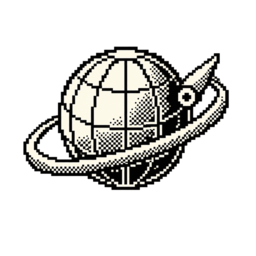
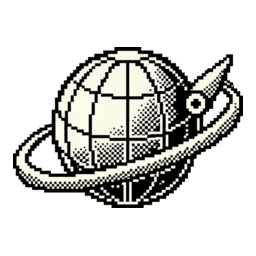
Cover the Omarchy app catalog

Changed region(s): [[0.0312, 0.1562, 0.9688, 0.8125]]

diff --git a/components/dock/IconResolver.js b/components/dock/IconResolver.js
@@ -13,39 +13,47 @@ var FALLBACK_MAP = {
 }
 
 var PACK_ALIASES = {
+    theme: ["aether", "theme designer", "theme editor"],
+    document: ["org gnome evince", "document viewer", "evince", "pdf viewer"],
+    disk: ["org gnome diskutility", "disk utility", "gnome disks", "disk usage", "disk image mounter", "disk image writer"],
+    image: ["imv", "image viewer", "google photos", "photo viewer"],
+    spreadsheet: ["libreoffice calc", "spreadsheet"],
+    presentation: ["libreoffice impress", "presentation"],
+    writer: ["libreoffice writer", "omawrite", "word processor"],
+    transfer: ["localsend", "local send", "file transfer"],
+    paint: ["pinta", "paint editor", "image editor"],
+    "video-edit": ["kdenlive", "omacut", "video editor"],
+    broadcast: ["obsproject studio", "obs studio", "screen recorder", "broadcast studio"],
+    calculator: ["omacalc", "calculator"],
+    printer: ["system config printer", "printer settings", "printing"],
+    ocr: ["tensaku", "optical character recognition", "text recognition"],
+    project: ["basecamp", "project management"],
+    containers: ["docker", "lazydocker", "containers"],
+    contacts: ["google contacts", "address book", "contacts"],
+    maps: ["google maps", "maps"],
+    social: [" x ", "twitter", "social feed"],
     files: ["nautilus", "dolphin", "thunar", "pcmanfm", "nemo", "cosmic files", "file manager"],
     terminal: ["foot", "kitty", "alacritty", "ghostty", "wezterm", "konsole", "kgx", "gnome console", "xterm"],
     browser: ["chromium", "chrome", "firefox", "brave", "vivaldi", "epiphany", "helium", "zen browser"],
     code: ["code", "codium", "cursor", "zed", "sublime text", "intellij", "pycharm", "webstorm", "neovim"],
-    mail: ["thunderbird", "geary", "evolution", "mailspring", "proton mail"],
-    chat: ["discord", "slack", "signal", "telegram", "mattermost", "element", "whatsapp"],
-    music: ["spotify", "rhythmbox", "lollypop", "amberol", "strawberry", "audacious", "music"],
-    video: ["vlc", "mpv", "celluloid", "clapper", "totem", "obs studio", "video"],
+    mail: ["hey", "thunderbird", "geary", "evolution", "mailspring", "proton mail"],
+    chat: ["discord", "slack", "signal", "telegram", "mattermost", "element", "whatsapp", "google messages"],
+    music: ["cliamp", "spotify", "rhythmbox", "lollypop", "amberol", "strawberry", "audacious", "music"],
+    video: ["vlc", "mpv", "celluloid", "clapper", "totem", "youtube", "zoom", "video player"],
     calendar: ["calendar", "morgen", "fantastical"],
     settings: ["settings", "control center", "pavucontrol", "blueman", "nwg look"],
-    games: ["steam", "lutris", "heroic", "bottles", "games"],
-    notes: ["obsidian", "logseq", "joplin", "standard notes", "notes"]
+    games: ["moonlight", "steam", "lutris", "heroic", "bottles", "games"],
+    notes: ["obsidian", "xournalpp", "xournal", "logseq", "joplin", "standard notes", "notes"],
+    application: []
 }
 
 var PACK_ROLES = Object.keys(PACK_ALIASES)
 
-// Alpha bounds measured from the bundled 256x256 raster originals. Keeping
-// the source files untouched preserves their authored masters while the UI
-// presents the painted artwork at a consistent visual size.
-var PACK_CROPS = {
-    browser: { x: 23, y: 46, width: 207, height: 145 },
-    calendar: { x: 23, y: 13, width: 214, height: 230 },
-    chat: { x: 20, y: 34, width: 216, height: 190 },
-    code: { x: 44, y: 25, width: 175, height: 193 },
-    files: { x: 37, y: 19, width: 189, height: 199 },
-    games: { x: 24, y: 24, width: 218, height: 199 },
-    mail: { x: 14, y: 34, width: 217, height: 188 },
-    music: { x: 45, y: 13, width: 177, height: 222 },
-    notes: { x: 28, y: 18, width: 192, height: 210 },
-    settings: { x: 30, y: 36, width: 202, height: 188 },
-    terminal: { x: 28, y: 13, width: 199, height: 230 },
-    video: { x: 58, y: 13, width: 158, height: 219 }
-}
+// Every rendered pack asset is trimmed, scaled into the same 230px optical
+// box, and centered on a 256px transparent canvas by render-app-icons.py.
+var PACK_CROPS = {}
+for (var cropIndex = 0; cropIndex < PACK_ROLES.length; cropIndex++)
+    PACK_CROPS[PACK_ROLES[cropIndex]] = { x: 13, y: 13, width: 230, height: 230 }
 
 function sanitizeName(value) {
     return String(value || "").replace(/\.desktop$/i, "").replace(/[-_]+/g, " ").trim()

diff --git a/components/dock/IconPickerPanel.qml b/components/dock/IconPickerPanel.qml
@@ -38,6 +38,7 @@ PanelWindow {
   property int appliedRevision: 0
   property int gridCell: 112
   readonly property var packIcons: [
+    { pack: "application", label: "Application" },
     { pack: "files", label: "Files" },
     { pack: "terminal", label: "Terminal" },
     { pack: "browser", label: "Web" },
@@ -49,7 +50,26 @@ PanelWindow {
     { pack: "calendar", label: "Calendar" },
     { pack: "settings", label: "Controls" },
     { pack: "games", label: "Games" },
-    { pack: "notes", label: "Notes" }
+    { pack: "notes", label: "Notes" },
+    { pack: "theme", label: "Themes" },
+    { pack: "document", label: "Documents" },
+    { pack: "disk", label: "Disks" },
+    { pack: "image", label: "Images" },
+    { pack: "spreadsheet", label: "Spreadsheets" },
+    { pack: "presentation", label: "Presentations" },
+    { pack: "writer", label: "Writing" },
+    { pack: "transfer", label: "Transfer" },
+    { pack: "paint", label: "Paint" },
+    { pack: "video-edit", label: "Video Editing" },
+    { pack: "broadcast", label: "Broadcast" },
+    { pack: "calculator", label: "Calculator" },
+    { pack: "printer", label: "Printing" },
+    { pack: "ocr", label: "Text Scan" },
+    { pack: "project", label: "Projects" },
+    { pack: "containers", label: "Containers" },
+    { pack: "contacts", label: "Contacts" },
+    { pack: "maps", label: "Maps" },
+    { pack: "social", label: "Social" }
   ]
 
   function appHasCustomIcon(id) {
@@ -627,7 +647,7 @@ PanelWindow {
                     sourceSize: Qt.size(136, 136)
                     fillMode: Image.PreserveAspectFit
                     cache: true
-                    asynchronous: true
+                    asynchronous: false
                   }
                 }
 
@@ -773,7 +793,7 @@ PanelWindow {
                 sourceSize: Qt.size(72, 72)
                 fillMode: Image.PreserveAspectFit
                 cache: true
-                asynchronous: true
+                asynchronous: false
               }
 
               Text {

diff --git a/components/dock/tests/IconResolver.test.js b/components/dock/tests/IconResolver.test.js
@@ -11,6 +11,7 @@ function loadQmlJs(path) {
 }
 
 const resolver = loadQmlJs("IconResolver.js")
+const pack = JSON.parse(fs.readFileSync("assets/app-icons/pack.json", "utf8"))
 
 test("resolves explicit and fallback icons", () => {
   assert.equal(resolver.resolveIcon({ icon: "mail" }), "mail")
@@ -56,6 +57,20 @@ test("associates common Linux apps with One-Bit Bureau roles", () => {
   assert.equal(resolver.automaticPackRole({ id: "com.valvesoftware.Steam" }), "games")
   assert.equal(resolver.automaticPackRole({ id: "md.obsidian.Obsidian" }), "notes")
   assert.equal(resolver.automaticPackRole({ id: "org.example.Encode" }), "")
+})
+
+test("covers every launcher-visible app in a fresh Omarchy install", () => {
+  assert.equal(pack.schemaVersion, 2)
+  assert.equal(pack.fallbackRole, "application")
+  assert.equal(pack.roles.length, 32)
+  assert.equal(pack.freshInstallApps.length, 36)
+  for (const app of pack.freshInstallApps) {
+    assert.equal(
+      resolver.automaticPackRole({ id: app.id, name: app.name }),
+      app.role,
+      `${app.name} maps to ${app.role}`
+    )
+  }
 })
 
 test("grays only unmatched automatic native icons", () => {

diff --git a/components/dock/DockPanelBase.qml b/components/dock/DockPanelBase.qml
@@ -1421,10 +1421,10 @@ Item {
     }
   }
 
-  // Automatic matching is the authored One-Bit path. When no role matches,
-  // preserve the native artwork's shape but remove its color so an uncommon
-  // app still belongs on the Bureau shelf. Custom files, manual pack choices,
-  // and the explicit Native mode remain exactly as the user chose them.
+  // Automatic matching is the authored One-Bit path. Every fresh Omarchy app
+  // has a role; uncommon apps retain a grayscale native icon when one resolves,
+  // then fall back to the bundled Application mark instead of a blank slot.
+  // Custom files, manual pack choices, and explicit Native remain untouched.
   function iconUsesAutomaticNativeFallback(item) {
     var id = typeof item === "string" ? item : item && item.id
     if (!id) return false
@@ -1460,7 +1460,7 @@ Item {
           return resolved
       }
     }
-    return ""
+    return Util.fileUrl(root.packDir + "/application.png")
   }
 
   Timer { id: conflictNotice; interval: 30000 }

diff --git a/components/dock/tests/IconPickerContract.test.js b/components/dock/tests/IconPickerContract.test.js
@@ -5,6 +5,12 @@ const path = require("node:path")
 
 const source = fs.readFileSync(path.join(__dirname, "..", "IconPickerPanel.qml"), "utf8")
 const surface = source.slice(source.indexOf("// ---- Surface"))
+const pack = JSON.parse(fs.readFileSync(path.join(__dirname, "..", "assets", "app-icons", "pack.json"), "utf8"))
+
+test("icon manager exposes every bundled raster role", () => {
+  const pickerRoles = [...source.matchAll(/\{ pack: "([a-z0-9-]+)", label: "[^"]+" \}/g)].map(match => match[1])
+  assert.deepEqual(pickerRoles, pack.roles.map(role => role.id))
+})
 
 test("icon manager uses opaque square One-Bit Bureau geometry", () => {
   assert.match(surface, /id: card[\s\S]*?radius: 0[\s\S]*?color: Color\.background[\s\S]*?border\.color: Color\.foreground[\s\S]*?border\.width: 2/)

diff --git a/artwork/render-app-icons.py b/artwork/render-app-icons.py
@@ -13,6 +13,7 @@ SOURCE_DIR = ROOT / "artwork" / "imagegen" / "app-icons"
 OUTPUT_DIR = ROOT / "components" / "dock" / "assets" / "app-icons"
 CONTACT_SHEET = ROOT / "docs" / "app-icon-pack.png"
 ROLES = (
+    "application",
     "files",
     "terminal",
     "browser",
@@ -25,6 +26,25 @@ ROLES = (
     "settings",
     "games",
     "notes",
+    "theme",
+    "document",
+    "disk",
+    "image",
+    "spreadsheet",
+    "presentation",
+    "writer",
+    "transfer",
+    "paint",
+    "video-edit",
+    "broadcast",
+    "calculator",
+    "printer",
+    "ocr",
+    "project",
+    "containers",
+    "contacts",
+    "maps",
+    "social",
 )
 
 
@@ -51,13 +71,19 @@ def render_icon(magick: str, identify: str, role: str) -> Path:
         raise SystemExit(f"missing source: {source}")
     geometry = output(identify, "-ping", "-format", "%wx%h", str(source))
     channels = output(identify, "-ping", "-format", "%[channels]", str(source))
-    if geometry != "1254x1254" or "a" not in channels.lower():
+    width, height = (int(value) for value in geometry.split("x", 1))
+    if min(width, height) < 1024 or "a" not in channels.lower():
         raise SystemExit(f"unexpected source format for {source}: {geometry} {channels}")
 
     destination = OUTPUT_DIR / f"{role}.png"
     run(
         magick,
         str(source),
+        "-channel",
+        "A",
+        "-threshold",
+        "4%",
+        "+channel",
         "-trim",
         "+repage",
         "-resize",
@@ -93,7 +119,7 @@ def contact_sheet(magick: str, icons: list[Path]) -> None:
         command.extend(("-font", font))
     for icon in icons:
         command.extend(("-label", icon.stem, str(icon)))
-    command.extend(("-tile", "4x3", "-geometry", "164x188+14+14", str(CONTACT_SHEET)))
+    command.extend(("-tile", "6x6", "-geometry", "164x188+14+14", str(CONTACT_SHEET)))
     run(*command)
 
 

diff --git a/docs/DIRECTION.md b/docs/DIRECTION.md
@@ -22,7 +22,7 @@ This edition applies the original Macintosh interface method rather than reprodu
 
 - The desktop ground is an original ImageGen-authored one-bit machine workbench: paper stacks, organizing trays, cables, toothed leaves, and abstract mechanisms frame a calm central work field. The leftmost object lane and bottom-center shelf zone remain deliberately quiet.
 - Paper windows, dialogs, menus, notifications, and the top rail sit clearly above the desktop ground. All shell surfaces are opaque, square, and integer-aligned.
-- Generic folder, document, archive, link, launcher-fallback, and Trash objects use expressive raster mini-illustrations reduced from original ImageGen sources. Safe local raster image files use grayscale desktop thumbnails without changing the source bytes; unsupported or unsafe image inputs use the authored one-bit picture fallback. Authored and manually assigned application icons render as supplied, while an unmatched automatic native fallback retains its silhouette and detail in grayscale. Explicit Native mode restores its original color.
+- Generic folder, document, archive, link, launcher-fallback, and Trash objects use expressive raster mini-illustrations reduced from original ImageGen sources. Safe local raster image files use grayscale desktop thumbnails without changing the source bytes; unsupported or unsafe image inputs use the authored one-bit picture fallback. Every launcher-visible fresh-install application maps to one of 32 authored roles. An uncommon application keeps a resolvable native icon in grayscale; when that native icon cannot be resolved, the authored Application mark prevents a blank. Explicit Native mode restores the original icon in color.
 - The overview is a contact sheet of stable paper preview bodies. Keyboard selection inverts only the title rail; the actually active window receives a double outer rule.
 - The top rail names the active application first. A distinct window or document title is secondary context, never a fake global menu.
 - The dock remains a modern One-Bit Bureau launch shelf translated into this bitmap workbench system. It is not presented as historical Macintosh behavior.
@@ -58,7 +58,7 @@ The artwork contains no Apple marks, copied desktop tiles, historical devices, t
 - No original desktop tiles, exact striped title rhythm, system sounds, logos, device silhouettes, or proprietary typefaces.
 - No beige-monitor costume, CRT curvature, scanlines, phosphor glow, sepia, or synthwave gradients.
 - Original object illustrations use a shared bitmap scale and dither system but do not recreate Apple silhouettes, proportions, badges, faces, or pixel decisions.
-- Modern application content is not recolored. Application icons keep their authored One-Bit or user-assigned treatment; only unmatched automatic native fallbacks are desaturated, with an explicit Native color opt-out.
+- Modern application content is not recolored. Fresh-install application icons keep their authored One-Bit role and user-assigned icons render as supplied. Only uncommon automatic native fallbacks are desaturated, with an explicit Native color opt-out; unresolved native icons use the authored one-bit Application mark.
 
 ## Success checks
 
@@ -66,7 +66,7 @@ The artwork contains no Apple marks, copied desktop tiles, historical devices, t
 - A selected generic object changes both its glyph state and its name rail.
 - A selected safe local photograph keeps the same grayscale desktop pixels while its enclosure and name rail change state; the source file remains byte-identical and opens in color.
 - An unsupported or unsafe image uses the authored picture fallback, whose glyph and name rail reverse together when selected.
-- An unmatched automatic app uses a grayscale native fallback on every One-Bit dock surface; explicit Native mode and user-supplied custom icons render as supplied.
+- Every launcher-visible fresh-install app resolves to its cataloged authored role on every One-Bit dock surface. An uncommon automatic app uses a grayscale native fallback when resolvable and the authored Application mark otherwise; explicit Native mode and user-supplied custom icons render as supplied.
 - Overview selection never changes the preview body's value.
 - The active overview window is distinguishable from the keyboard-selected window when they differ.
 - The top rail's primary identity is the application, not only the document title.

diff --git a/docs/RELEASE-CHECKLIST.md b/docs/RELEASE-CHECKLIST.md
@@ -6,7 +6,7 @@
 - Confirm `omarchy plugin validate .` passes on the target Omarchy release.
 - Confirm the `one-bit-bureau` theme passes strict validation and a real template render.
 - Confirm the branded `unlock.png` has transparency and `preview-unlock.png` is 1920×1080 and matches the current mark.
-- Confirm all twelve rendered app icons match `pack.json`, the font family names and checksums match `fonts/README.md`, and both license texts ship.
+- Confirm all 32 rendered app icons match `pack.json`, all 36 fresh-install application associations resolve to a declared role, the authored Application fallback ships, the font family names and checksums match `fonts/README.md`, and both license texts ship.
 - Confirm the desktop policy exposes only regular local PNG, JPEG, WebP, and BMP files at or below 32 MiB as previews; SVG, GIF, oversized, remote, inline, missing, and disallowed-path inputs must fall back without being decoded by the shell.
 - Confirm the repository contains no symlinks or executable files; this is required because the same repository is also an Omarchy theme source.
 - Run the desktop transaction-helper tests and verify local-path/type/count/byte limits, collision-free copy and move, partial receipts, private atomic journals, child timeout/parent-death containment, launcher demotion, changed-destination rejection, and exact hash-proven Undo.
@@ -35,7 +35,7 @@
 - Verify the clean first-run dock seeds Files, Chromium, and Foot; all three use their One-Bit Bureau associations, painted-alpha crops, 48px boxes, and a shared optical center without clipping or crowding.
 - Verify dock launch, focus-existing-window, pin/unpin, reorder, auto-hide, previews, icon management, and the opt-in app-switcher binding in floating and tiled layouts.
 - Open two windows under one app identity across two workspaces. Verify 1/2/3+ marks, active and workspace-split text, most-recent-window focus, the titled Window Ledger, explicit Activate/Close, stale-address fallback, and no accidental duplicate launch.
-- Verify automatic app-icon associations for Files, terminal, browser, and one communication app. Add an unmatched app and confirm its automatic native fallback is grayscale in the dock, drag ghost, preview fallback, app switcher, and icon manager; then confirm explicit Native mode restores the original color and custom files plus manual pack choices render as supplied, all without network access.
+- Verify all 36 fresh-install app-icon associations resolve to their cataloged authored roles in the dock, drag ghost, preview fallback, app switcher, and icon manager. Add an uncommon app with a resolvable native icon and confirm its automatic fallback is grayscale on every surface; add an app with an unresolvable native icon and confirm the authored Application mark appears instead of a blank. Then confirm explicit Native mode restores the original color and custom files plus manual pack choices render as supplied, all without network access.
 - Verify dock and desktop menus preserve their row order while unavailable commands remain visible and dimmed.
 - Verify overview hot corner, summon/hide IPC, keyboard navigation, search, preview, close-window action, workspace changes, and two displays.
 - Verify the overview workspace rail's stable ordinary-workspace ordering, occupancy, Control+Left/Right selection, Control+Enter scope, Control+Shift+Enter move, context parity, stale destination error, and that the overview remains open while the card re-homes.

diff --git a/README.md b/README.md
@@ -33,8 +33,8 @@ The complete manual install and trust model are documented in the [installation 
 - **A bottom dock with a Window Ledger.** Launch apps, focus the most-recent surviving window, see 1/2/3+ window state, inspect current and other-workspace counts, open a titled window list, pin and reorder favorites, preview windows, and optionally auto-hide it.
 - **A window overview and workspace board.** Move the pointer to the top-left corner or run `one-bit-bureau overview` to search and switch. The compact rail shows occupancy and moves the selected window to an existing ordinary workspace without closing the overview.
 - **A complete visual system.** The Bitmap Workbench wallpaper, square paper-and-carbon surfaces, top-bar app context, notification styling, terminal palette, branding, and unlock art all belong together.
-- **Twelve original app icons.** Files, Terminal, Web, Code, Mail, Chat, Music, Video, Calendar, Controls, Games, and Notes work offline.
-- **Sensible fallbacks.** Apps without a matching One-Bit icon keep their recognizable native icon in grayscale. You can restore the original color icon at any time.
+- **Thirty-two original app icons.** Every launcher-visible app in a fresh Omarchy Quattro install maps to an authored offline role, including office, creative, media, utility, communication, and web apps.
+- **Sensible fallbacks.** An uncommon app keeps its recognizable native icon in grayscale. If that icon cannot be resolved, the dock uses an authored one-bit Application mark instead of leaving a blank. You can restore the original color icon at any time.
 - **Two optional retro fonts.** Monaspace Krypton NF is the practical whole-desktop choice; Departure Mono is the sharper pixel-shaped alternative.
 - **A reversible install.** One-Bit Bureau records what it owns, restores the settings and branding it replaced, and leaves your Desktop files and personal choices alone.
 
@@ -74,7 +74,7 @@ These are real 1280×800 captures retained from passed disposable x86_64 Omarchy
 
 <table>
   <tr>
-    <td width="50%"><img src="docs/screenshots/runtime-icon-picker.png" alt="One-Bit Bureau app icon picker with twelve original bitmap roles"><br><sub>Twelve offline icons plus automatic grayscale and native fallbacks</sub></td>
+    <td width="50%"><img src="docs/screenshots/runtime-icon-picker.png" alt="One-Bit Bureau app icon picker with 32 original bitmap roles"><br><sub>Thirty-two offline icons cover every fresh-install app, with grayscale-native and one-bit Application fallbacks</sub></td>
     <td width="50%"><img src="docs/screenshots/runtime-overview.png" alt="One-Bit Bureau searchable window overview with ordinary workspaces 1 and 2"><br><sub>Searchable, keyboard-navigable windows and workspaces</sub></td>
   </tr>
   <tr>
@@ -92,7 +92,7 @@ one-bit-bureau motion reduce
 one-bit-bureau motion full
 ```
 
-The dock’s **Manage Icons** screen is the easiest way to assign a One-Bit role, keep an automatic grayscale fallback, use an app’s original full-color icon, or choose your own local image.
+The dock’s **Manage Icons** screen is the easiest way to use the automatic authored match, assign another One-Bit role, keep an uncommon app’s automatic grayscale-native fallback, restore an app’s original full-color icon, or choose your own local image. When no native icon can be resolved, the automatic mode uses the bundled one-bit Application mark instead of an empty box.
 
 ## Update or remove
 

diff --git a/artwork/APP-ICON-PACK.md b/artwork/APP-ICON-PACK.md
@@ -1,9 +1,11 @@
 # One-Bit Bureau app icon pack
 
-The twelve app-role illustrations are original ImageGen outputs made for One-Bit Bureau on 2026-08-29. Each source was generated separately on a transparent square canvas with no logos, letters, trademarks, platform marks, gradients, drop shadows, or color beyond warm paper and near-black carbon.
+The 32 app-role illustrations are original ImageGen outputs made for One-Bit Bureau on 2026-08-29 and 2026-08-30. Each selected source was generated separately on a transparent canvas with no logos, letters, trademarks, platform marks, gradients, drop shadows, or color beyond warm paper and near-black carbon. Two otherwise successful generations arrived with a baked checkerboard; the Writer and Maps sources were repaired through ImageGen background extraction before they entered the pack.
 
-The shared prompt contract was: an original late-1984-inspired one-bit bitmap illustration for a generic application role, chunky black pixel contours, sparse ordered dithering, warm off-white paper fill, strict frontal or slight three-quarter silhouette, readable at 48–64 pixels, no imitation of a specific historical system icon. Role-specific objects were then requested for Files, Terminal, Web, Code, Mail, Chat, Music, Video, Calendar, Controls, Games, and Notes.
+The shared prompt contract was: an original late-1984-inspired one-bit bitmap illustration for a generic application role, chunky black pixel contours, sparse ordered dithering, warm off-white paper fill, strict frontal or slight three-quarter silhouette, readable at 48–64 pixels, no imitation of a specific historical system icon. The original role set covers Files, Terminal, Web, Code, Mail, Chat, Music, Video, Calendar, Controls, Games, and Notes. The expanded set adds Application, Theme, Document, Disk, Image, Spreadsheet, Presentation, Writer, Transfer, Paint, Video Edit, Broadcast, Calculator, Printer, OCR, Project, Containers, Contacts, Maps, and Social.
 
-`render-app-icons.py` trims the transparent ImageGen masters and deterministically produces 256×256 PNGs with consistent optical scale. The installed dock consumes only the rendered files under `components/dock/assets/app-icons/`; the source masters remain in `artwork/imagegen/app-icons/` for later hand-pixeling or vectorization.
+`pack.json` is the machine-readable association catalog. Its 36 fresh-install records cover every launcher-visible application shipped by Omarchy Quattro while deliberately mapping related apps to reusable visual roles instead of copying vendor marks. Known apps receive an authored role automatically. An uncommon app with a valid native icon receives that icon in grayscale; an app whose native icon cannot be resolved receives the authored Application fallback; explicit Native mode restores the original icon in color.
+
+`render-app-icons.py` thresholds faint ImageGen alpha, trims the transparent masters, and deterministically produces 256×256 PNGs inside a shared 230×230 optical box. The installed dock consumes only the rendered files under `components/dock/assets/app-icons/`; the source masters remain in `artwork/imagegen/app-icons/` for later hand-pixeling or vectorization.
 
 `video-rejected-source.png` is intentionally not part of the pack. It was rejected because the projected-light form introduced a hand-like ambiguity and a weaker silhouette than the final reel-and-viewer design.
